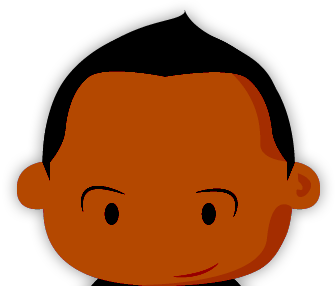
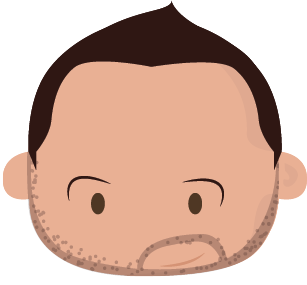
Updating project

diff --git a/thankyou/js/functionality.min.js b/thankyou/js/functionality.min.js
@@ -1,2 +1,2 @@
 //Create global namespace
-var O3=O3||{};jQuery(document).ready(function(){jQuery(".randomize-outfit").on("click",function(){O3.outfit=new O3.DressUpKeith;O3.outfit.randomizeOutfit()});jQuery(".create-ipsum").on("click",function(){O3.ipsum=new O3.GadsbyIpsum;O3.ipsum.createIpsum()})});O3.getRandomArrayPosition=function(e){return Math.floor(Math.random()*e.length)};O3.getRandomArrayValue=function(e){return e[this.getRandomArrayPosition(e)]};O3.DressUpKeith=function(){var e="../images/keith/",t={heads:[e+"head-1.png",e+"head-2.png"],bodies:[{src:e+"body-1.png",overlap:!0},{src:e+"body-2.png",overlap:!1}],legs:[e+"legs-1.png",e+"legs-2.png"],shoes:[e+"shoes-1.png",e+"shoes-2.png",e+"shoes-3.png"]};this.randomizeOutfit=function(){var n,r,i,s=O3.getRandomArrayValue(t.shoes);if(Math.floor(Math.random()*10)+1==4){n=e+"head-3.png";r=e+"body-3.png";i=e+"legs-3.png"}else{n=O3.getRandomArrayValue(t.heads);var o=O3.getRandomArrayValue(t.bodies);r=o.src;var u=o.overlap;i=O3.getRandomArrayValue(t.legs);u}jQuery(".built-person .head").attr("src",n);jQuery(".built-person .body").attr("src",r);jQuery(".built-person .legs").attr("src",i);jQuery(".built-person .shoes").attr("src",s)}};O3.GadsbyIpsum=function(){var e={addresses:["hey guys","dude","listen up,"],leads:["honestly...","well...","you know...","ummm..."],starters:["not for nothing, but","see...this is what I'm getting at","listen, at the end of the day","just so you're aware","to a certain degree","let me make this clear","let's be honest","I can tell you right now","correct me if I'm wrong here but"],connectors:["and to be quite frank,","and I'll tell you why,","and to be fair,","and to some degree,"],declarations:["I get where you're going","yes and no","I'm into that","what's the point and purpose","it is what it is","it's a thing","that's not the issue","just fake the funk","we need to flip the script","I'm super psyched","it's super sweet"],standalones:["can I get you for a sec?","get in here","you have a minute?","fuck gurus, fuck ninjas","just throw in some loaders","what are we looking at timewise here?","fuck","word","boom"]},t=[O3.getRandomArrayValue(e.addresses)+" "+O3.getRandomArrayValue(e.leads)+O3.getRandomArrayValue(e.starters)+" "+O3.getRandomArrayValue(e.declarations),O3.getRandomArrayValue(e.leads)+O3.getRandomArrayValue(e.starters)+" "+O3.getRandomArrayValue(e.declarations),O3.getRandomArrayValue(e.starters)+" "+O3.getRandomArrayValue(e.declarations),O3.getRandomArrayValue(e.leads)+O3.getRandomArrayValue(e.declarations),O3.getRandomArrayValue(e.addresses)+" "+O3.getRandomArrayValue(e.declarations),O3.getRandomArrayValue(e.standalones)],n=function(e){return e.charAt(0).toUpperCase()+e.slice(1)},r=function(e){var t=e.charAt(e.length-1);return t=="!"||t=="?"?!0:!1};this.createIpsum=function(){var i=O3.getRandomArrayPosition(t),s=t[i],o=n(s);Math.floor(Math.random()*(t.length-1)+1)==4&&i!=t.length-1&&(o+=" "+O3.getRandomArrayValue(e.connectors)+" "+O3.getRandomArrayValue(e.declarations));r(o)||(o+=".");jQuery(".bubble span").text(o)}};
+var O3=O3||{};O3.keithClickCounter=1;jQuery(document).ready(function(){jQuery(".randomize-outfit").on("click",function(){O3.outfit=new O3.DressUpKeith;O3.outfit.randomizeOutfit();O3.keithClickCounter++});jQuery(".create-ipsum").on("click",function(){O3.ipsum=new O3.GadsbyIpsum;O3.ipsum.createIpsum()})});O3.getRandomArrayPosition=function(e){return Math.floor(Math.random()*e.length)};O3.getRandomArrayValue=function(e){return e[this.getRandomArrayPosition(e)]};O3.DressUpKeith=function(){var e="../images/keith/",t={heads:[e+"head-1.png",e+"head-2.png",e+"head-3.png"],bodies:[{src:e+"body-1.png",overlap:!0},{src:e+"body-2.png",overlap:!1},{src:e+"body-2.png",overlap:!1},{src:e+"body-4.png",overlap:!1}],legs:[e+"legs-1.png",e+"legs-2.png",e+"legs-3.png",e+"legs-4.png"],shoes:[e+"shoes-1.png",e+"shoes-2.png",e+"shoes-3.png",e+"shoes-4.png"]},n=function(e){var t=jQuery(".built-person"),n="body-overlap";e?t.hasClass(n)||t.addClass(n):t.hasClass(n)&&t.removeClass(n)},r=function(e){var t=jQuery(".built-person"),n="special-outfit";e?t.hasClass(n)||t.addClass(n):t.hasClass(n)&&t.removeClass(n)};this.randomizeOutfit=function(){var i,s,o,u=O3.getRandomArrayValue(t.shoes);if(O3.keithClickCounter%7===0){i=e+"head-special.png";s=e+"body-special.png";o=e+"legs-special.png";r(!0)}else{i=O3.getRandomArrayValue(t.heads);var a=O3.getRandomArrayValue(t.bodies);s=a.src;var f=a.overlap;o=O3.getRandomArrayValue(t.legs);r(!1);n(f)}jQuery(".built-person .head").attr("src",i);jQuery(".built-person .body").attr("src",s);jQuery(".built-person .legs").attr("src",o);jQuery(".built-person .shoes").attr("src",u)}};O3.GadsbyIpsum=function(){var e={addresses:["hey guys","dude","listen up,"],leads:["honestly...","well...","you know...","ummm..."],starters:["not for nothing, but","see...this is what I'm getting at","listen, at the end of the day","just so you're aware","to a certain degree","let me make this clear","let's be honest","I can tell you right now","correct me if I'm wrong here but","I will say this","let me just back up"],connectors:["and to be quite frank,","and I'll tell you why,","and to be fair,","and to some degree,"],declarations:["I get where you're going","yes and no","I'm into that","what's the point and purpose","it is what it is","it's a thing","that's not the issue","just fake the funk","we need to flip the script","I'm super psyched","it's super sweet"],standalones:["can I get you for a sec?","get in here","you have a minute?","fuck gurus, fuck ninjas","just throw in some loaders","what are we looking at timewise here?","fuck","word","boom"]},t=[O3.getRandomArrayValue(e.addresses)+" "+O3.getRandomArrayValue(e.leads)+O3.getRandomArrayValue(e.starters)+" "+O3.getRandomArrayValue(e.declarations),O3.getRandomArrayValue(e.leads)+O3.getRandomArrayValue(e.starters)+" "+O3.getRandomArrayValue(e.declarations),O3.getRandomArrayValue(e.starters)+" "+O3.getRandomArrayValue(e.declarations),O3.getRandomArrayValue(e.leads)+O3.getRandomArrayValue(e.declarations),O3.getRandomArrayValue(e.addresses)+" "+O3.getRandomArrayValue(e.declarations),O3.getRandomArrayValue(e.standalones)],n=function(e){return e.charAt(0).toUpperCase()+e.slice(1)},r=function(e){var t=e.charAt(e.length-1);return t=="!"||t=="?"?!0:!1};this.createIpsum=function(){var i=O3.getRandomArrayPosition(t),s=t[i],o=n(s);Math.floor(Math.random()*(t.length-1)+1)==4&&i!=t.length-1&&(o+=" "+O3.getRandomArrayValue(e.connectors)+" "+O3.getRandomArrayValue(e.declarations));r(o)||(o+=".");jQuery(".bubble span").text(o)}};

diff --git a/thankyou/js/functionality.js b/thankyou/js/functionality.js
@@ -1,11 +1,14 @@
 //Create global namespace
 var O3 = O3 || {};
 
+O3.keithClickCounter = 1;
+
 jQuery(document).ready(function() {
 
 	jQuery('.randomize-outfit').on('click', function(){
 		O3.outfit = new O3.DressUpKeith();
 		O3.outfit.randomizeOutfit();
+		O3.keithClickCounter++;
 	});
 
 	jQuery('.create-ipsum').on('click', function(){
@@ -29,14 +32,54 @@ O3.DressUpKeith = function() {
 
 	var outfits = {
 
-		heads: [imageDirectory + 'head-1.png', imageDirectory + 'head-2.png'],
+		heads: [imageDirectory + 'head-1.png', imageDirectory + 'head-2.png', imageDirectory + 'head-3.png'],
 
-		bodies: [{src: imageDirectory + 'body-1.png', overlap: true}, {src: imageDirectory + 'body-2.png', overlap: false}],
+		bodies: [{src: imageDirectory + 'body-1.png', overlap: true}, {src: imageDirectory + 'body-2.png', overlap: false}, {src: imageDirectory + 'body-2.png', overlap: false}, {src: imageDirectory + 'body-4.png', overlap: false}],
 
-		legs: [imageDirectory + 'legs-1.png', imageDirectory + 'legs-2.png'],
+		legs: [imageDirectory + 'legs-1.png', imageDirectory + 'legs-2.png', imageDirectory + 'legs-3.png', imageDirectory + 'legs-4.png'],
 
-		shoes: [imageDirectory + 'shoes-1.png', imageDirectory + 'shoes-2.png', imageDirectory + 'shoes-3.png'],
+		shoes: [imageDirectory + 'shoes-1.png', imageDirectory + 'shoes-2.png', imageDirectory + 'shoes-3.png', imageDirectory + 'shoes-4.png'],
 	};
+
+	var manageBodyOverlap = function(overlap) {
+
+		var builtPerson = jQuery('.built-person');
+		var cssClass = 'body-overlap';
+
+		if (overlap) {
+
+			if (!builtPerson.hasClass(cssClass)) {
+				builtPerson.addClass(cssClass);
+			}
+
+		} else {
+
+			if (builtPerson.hasClass(cssClass)) {
+				builtPerson.removeClass(cssClass);
+			}
+
+		}
+	}
+
+	var manageSpecialOutfit = function(flag) {
+
+		var builtPerson = jQuery('.built-person');
+		var cssClass = 'special-outfit';
+
+		if (flag) {
+
+			if (!builtPerson.hasClass(cssClass)) {
+				builtPerson.addClass(cssClass);
+			}
+
+		} else {
+
+			if (builtPerson.hasClass(cssClass)) {
+				builtPerson.removeClass(cssClass);
+			}
+
+		}
+	}
 
 	this.randomizeOutfit = function() {
 		var head;
@@ -44,12 +87,13 @@ O3.DressUpKeith = function() {
 		var legs;
 		var shoes = O3.getRandomArrayValue(outfits.shoes);
 
-		//10% chance every time we get the "special" result
-		if (Math.floor(Math.random() * 10) + 1 == 4) {
+		if (O3.keithClickCounter % 7 === 0) {
 
-			head = imageDirectory + 'head-3.png';
-			body = imageDirectory + 'body-3.png';
-			legs = imageDirectory + 'legs-3.png';
+			head = imageDirectory + 'head-special.png';
+			body = imageDirectory + 'body-special.png';
+			legs = imageDirectory + 'legs-special.png';
+
+			manageSpecialOutfit(true);
 
 		} else {
 
@@ -59,12 +103,9 @@ O3.DressUpKeith = function() {
 			var bodyOverlap = bodyObj.overlap;
 			legs = O3.getRandomArrayValue(outfits.legs);
 
-			if (bodyOverlap) {
-				//Do stuff
-			} else {
-				//Do other stuff
-			}
-
+			manageSpecialOutfit(false);
+			manageBodyOverlap(bodyOverlap);
+			
 		}
 
 		jQuery('.built-person .head').attr('src', head);
@@ -83,7 +124,7 @@ O3.GadsbyIpsum = function() {
 
 		leads: ['honestly...', 'well...', 'you know...', 'ummm...'],
 
-		starters: ['not for nothing, but', 'see...this is what I\'m getting at', 'listen, at the end of the day', 'just so you\'re aware', 'to a certain degree', 'let me make this clear', 'let\'s be honest', 'I can tell you right now', 'correct me if I\'m wrong here but'],
+		starters: ['not for nothing, but', 'see...this is what I\'m getting at', 'listen, at the end of the day', 'just so you\'re aware', 'to a certain degree', 'let me make this clear', 'let\'s be honest', 'I can tell you right now', 'correct me if I\'m wrong here but', 'I will say this', 'let me just back up'],
 
 		connectors: ['and to be quite frank,', 'and I\'ll tell you why,', 'and to be fair,', 'and to some degree,'],
 

diff --git a/thankyou/css/ie.css b/thankyou/css/ie.css
@@ -675,6 +675,36 @@ h1 {
 .body-part {
   position: relative; }
 
+/* line 51, scss/_base.scss */
+.head {
+  z-index: 500; }
+
+/* line 52, scss/_base.scss */
+.body {
+  top: -23px;
+  z-index: 200; }
+
+/* line 53, scss/_base.scss */
+.legs {
+  top: -66px;
+  z-index: 300; }
+
+/* line 54, scss/_base.scss */
+.shoes {
+  top: -67px;
+  z-index: 100; }
+
+/* line 57, scss/_base.scss */
+.body-overlap .body {
+  z-index: 400; }
+
+/* line 61, scss/_base.scss */
+.special-outfit .body {
+  top: -35px; }
+/* line 62, scss/_base.scss */
+.special-outfit .legs {
+  top: -35px; }
+
 /* line 1, scss/_768.scss */
 .scene {
   width: 738px; }

diff --git a/thankyou/css/style.css b/thankyou/css/style.css
@@ -675,6 +675,36 @@ h1 {
 .body-part {
   position: relative; }
 
+/* line 51, scss/_base.scss */
+.head {
+  z-index: 500; }
+
+/* line 52, scss/_base.scss */
+.body {
+  top: -23px;
+  z-index: 200; }
+
+/* line 53, scss/_base.scss */
+.legs {
+  top: -66px;
+  z-index: 300; }
+
+/* line 54, scss/_base.scss */
+.shoes {
+  top: -67px;
+  z-index: 100; }
+
+/* line 57, scss/_base.scss */
+.body-overlap .body {
+  z-index: 400; }
+
+/* line 61, scss/_base.scss */
+.special-outfit .body {
+  top: -35px; }
+/* line 62, scss/_base.scss */
+.special-outfit .legs {
+  top: -35px; }
+
 /* line 1, scss/_768.scss */
 .scene {
   width: 738px; }

diff --git a/thankyou/css/style.min.css b/thankyou/css/style.min.css
@@ -675,6 +675,36 @@ h1 {
 .body-part {
   position: relative; }
 
+/* line 51, scss/_base.scss */
+.head {
+  z-index: 500; }
+
+/* line 52, scss/_base.scss */
+.body {
+  top: -23px;
+  z-index: 200; }
+
+/* line 53, scss/_base.scss */
+.legs {
+  top: -66px;
+  z-index: 300; }
+
+/* line 54, scss/_base.scss */
+.shoes {
+  top: -67px;
+  z-index: 100; }
+
+/* line 57, scss/_base.scss */
+.body-overlap .body {
+  z-index: 400; }
+
+/* line 61, scss/_base.scss */
+.special-outfit .body {
+  top: -35px; }
+/* line 62, scss/_base.scss */
+.special-outfit .legs {
+  top: -35px; }
+
 /* line 1, scss/_768.scss */
 .scene {
   width: 738px; }

diff --git a/thankyou/css/scss/_base.scss b/thankyou/css/scss/_base.scss
@@ -48,3 +48,16 @@ h1 { text-indent: -9999px; }
 .bubble-nub { display: block; position: absolute; top: 50%; left: -30px; width: 0; height: 0; border-top: 30px solid transparent; border-bottom: 30px solid transparent; border-right: 30px solid #fff; }
 
 .body-part { position: relative; }
+.head { z-index: 500; }
+.body { top: -23px; z-index: 200; }
+.legs { top: -66px; z-index: 300; }
+.shoes { top: -67px; z-index: 100; }
+
+.body-overlap {
+	.body { z-index: 400; }
+}
+
+.special-outfit {
+	.body { top: -35px; }
+	.legs { top: -35px; }
+}

diff --git a/thankyou/keith.php b/thankyou/keith.php
@@ -7,7 +7,7 @@
 
 	<h1 class="title keith">Dress Up Keith</h1>
 
-	<div class="person built-person big center">
+	<div class="person built-person big center body-overlap">
 		
 		<img class="body-part head" src="../images/keith/head-1.png" />
 		<img class="body-part body" src="../images/keith/body-1.png" />
